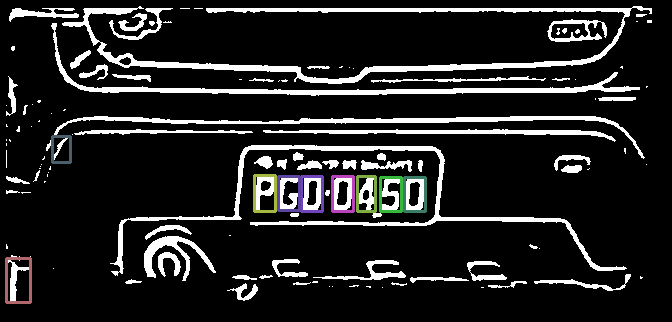
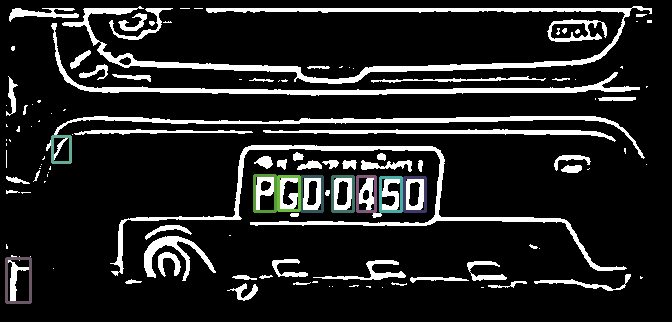
Recognition adjustments

Changed region(s): [[0.375, 0.528, 0.6562, 0.6832], [0.0, 0.7764, 0.0625, 0.9627], [0.0625, 0.4037, 0.125, 0.528]]

diff --git a/src/model/knn.py b/src/model/knn.py
@@ -3,23 +3,25 @@ import cv2 as cv
 from util.csvUtil import CSVUtil
 
 
+# K-Nearest Neighbors
 class KNN:
     def __init__(self):
-        pass
+        self.knn = self.train()
 
     def train(self):
-        pass
-
-    def classify(self, candidates):
-        print("  - KNN")
-        result = ""
-
-        classifications = np.loadtxt("../base/recognition/classifications.txt", np.float32)
-        classifications = classifications.reshape((classifications.size, 1))
+        labels = np.loadtxt("../base/recognition/labels.txt", np.float32)
+        labels = labels.reshape((labels.size, 1))
         flattened_images = np.loadtxt("../base/recognition/flattened_images.txt", np.float32)
 
         knn = cv.ml.KNearest_create()
-        knn.train(flattened_images, cv.ml.ROW_SAMPLE, classifications)
+        knn.train(flattened_images, cv.ml.ROW_SAMPLE, labels)
+
+        return knn
+
+    def classify(self, candidates):
+        print("  - KNN")
+
+        result = ""
 
         for file in candidates:
             img = cv.imread(file, 0)
@@ -28,7 +30,7 @@ class KNN:
             img_resized = img_resized.reshape((1, 34 * 52))
             img_resized = np.float32(img_resized)
 
-            retval, results, neigh_resp, dists = knn.findNearest(img_resized, k=1)
+            retval, results, neigh_resp, dists = self.knn.findNearest(img_resized, k=1)
 
             current_char = str(chr(int(results[0][0])))
 
@@ -37,23 +39,25 @@ class KNN:
         return result
     
     def get_training_data(self):
-        digits = ["../templates/mandatory/boxes/z.png", "../templates/mandatory/boxes/y.png", "../templates/mandatory/boxes/x.png",
-                  "../templates/mandatory/boxes/w.png", "../templates/mandatory/boxes/v.png", "../templates/mandatory/boxes/u.png",
-                  "../templates/mandatory/boxes/t.png", "../templates/mandatory/boxes/s.png", "../templates/mandatory/boxes/r.png",
-                  "../templates/mandatory/boxes/q.png", "../templates/mandatory/boxes/p.png", "../templates/mandatory/boxes/o.png",
-                  "../templates/mandatory/boxes/n.png", "../templates/mandatory/boxes/m.png", "../templates/mandatory/boxes/l.png",
-                  "../templates/mandatory/boxes/k.png", "../templates/mandatory/boxes/j.png", "../templates/mandatory/boxes/i.png",
-                  "../templates/mandatory/boxes/h.png", "../templates/mandatory/boxes/g.png", "../templates/mandatory/boxes/f.png",
-                  "../templates/mandatory/boxes/e.png", "../templates/mandatory/boxes/d.png", "../templates/mandatory/boxes/c.png",
-                  "../templates/mandatory/boxes/b.png", "../templates/mandatory/boxes/a.png", "../templates/mandatory/boxes/0.png",
-                  "../templates/mandatory/boxes/9.png", "../templates/mandatory/boxes/8.png", "../templates/mandatory/boxes/7.png", 
-                  "../templates/mandatory/boxes/6.png", "../templates/mandatory/boxes/5.png", "../templates/mandatory/boxes/4.png", 
-                  "../templates/mandatory/boxes/3.png", "../templates/mandatory/boxes/2.png", "../templates/mandatory/boxes/1.png"]
+        image_dir = "../templates/mandatory/boxes"
 
-        classifications = [ord('Z'), ord('Y'), ord('X'), ord('W'), ord('V'), ord('U'), ord('T'), ord('S'), ord('R'),
-                           ord('Q'), ord('P'), ord('O'), ord('N'), ord('M'), ord('L'), ord('K'), ord('J'), ord('I'),
-                           ord('H'), ord('G'), ord('F'), ord('E'), ord('D'), ord('C'), ord('B'), ord('A'), ord('0'),
-                           ord('9'), ord('8'), ord('7'), ord('6'), ord('5'), ord('4'), ord('3'), ord('2'), ord('1')]
+        digits = [image_dir+"/z.png", image_dir+"/y.png", image_dir+"/x.png",
+                  image_dir+"/w.png", image_dir+"/v.png", image_dir+"/u.png",
+                  image_dir+"/t.png", image_dir+"/s.png", image_dir+"/r.png",
+                  image_dir+"/q.png", image_dir+"/p.png", image_dir+"/o.png",
+                  image_dir+"/n.png", image_dir+"/m.png", image_dir+"/l.png",
+                  image_dir+"/k.png", image_dir+"/j.png", image_dir+"/i.png",
+                  image_dir+"/h.png", image_dir+"/g.png", image_dir+"/f.png",
+                  image_dir+"/e.png", image_dir+"/d.png", image_dir+"/c.png",
+                  image_dir+"/b.png", image_dir+"/a.png", image_dir+"/0.png",
+                  image_dir+"/9.png", image_dir+"/8.png", image_dir+"/7.png",
+                  image_dir+"/6.png", image_dir+"/5.png", image_dir+"/4.png",
+                  image_dir+"/3.png", image_dir+"/2.png", image_dir+"/1.png"]
+
+        labels = [ord('Z'), ord('Y'), ord('X'), ord('W'), ord('V'), ord('U'), ord('T'), ord('S'), ord('R'),
+                  ord('Q'), ord('P'), ord('O'), ord('N'), ord('M'), ord('L'), ord('K'), ord('J'), ord('I'),
+                  ord('H'), ord('G'), ord('F'), ord('E'), ord('D'), ord('C'), ord('B'), ord('A'), ord('0'),
+                  ord('9'), ord('8'), ord('7'), ord('6'), ord('5'), ord('4'), ord('3'), ord('2'), ord('1')]
 
         flattened_images = np.empty((0, 34 * 52))
         for digit in digits:
@@ -63,8 +67,8 @@ class KNN:
             flattened = img.reshape((1, 34 * 52))
             flattened_images = np.append(flattened_images, flattened, 0)
 
-        classifications = np.array(classifications, np.float32)
-        classifications = classifications.reshape(classifications.size, 1)
+        labels = np.array(labels, np.float32)
+        labels = labels.reshape(labels.size, 1)
 
-        np.savetxt("../base/classifications.txt", classifications)
-        np.savetxt("../base/flattened_images.txt", flattened_images)
+        np.savetxt("../base/recognition/labels.txt", labels)
+        np.savetxt("../base/recognition/flattened_images.txt", flattened_images)

diff --git a/src/controller/alpr.py b/src/controller/alpr.py
@@ -64,7 +64,6 @@ class Alpr:
         window = 13
         mean_c = 6
         threshold = th.process_adaptive(window, mean_c)
-        cv.imwrite('../bin/' + self.img_name + '-threshold.png', threshold)
 
         return threshold
 
@@ -98,7 +97,7 @@ class Alpr:
                     boxes.append([x, y, w, h])
 
             if 4.1 <= proportion <= 5.5:
-                if 3 <= w <= 15 and 40 <= h <= 80:
+                if 3 <= w <= 15 and 30 <= h <= 80:
                     colors = self.contour_color()
                     cv.rectangle(img, (x, y), (x + w, y + h), colors, 2)
                     boxes.append([x, y, w, h])
@@ -111,6 +110,71 @@ class Alpr:
             return boxes_files
 
         return False
+
+    def classification(self, candidates):
+        print('- Classification')
+
+        knn = KNN()
+        result = knn.classify(candidates)
+
+        results = self.validate_plates(result)
+
+        if len(results) != 0:
+            print("    - License Plates Detected: ", results)
+            return
+
+        print("    - Characters Detected: ", result)
+
+    def validate_plates(self, result):
+        regex = re.compile('[A-Z12578]{3,3}[0-9IZSTB]{4,4}')
+        results = regex.findall(result)
+
+        if len(results) != 0:
+            plates = []
+            for plate in results:
+                letters = plate[:3]
+                numbers = plate[3:]
+                letters, numbers = self.remove_ambiguity(letters, numbers)
+                plate = letters+'-'+numbers
+                plates.append(plate)
+
+            return plates
+
+        return result
+
+    def remove_ambiguity(self, letters, numbers):
+        letter_replace = {'1': 'I', '2': 'Z', '5': 'S', '7': 'T', '8': 'B'}
+        number_replace = {'I': '1', 'Z': '2', 'S': '5', 'T': '7', 'B': '8'}
+
+        correct_letters = ''
+        for letter in letters:
+            if letter in letter_replace.keys():
+                correct_letters += letter_replace.get(letter)
+                continue
+            correct_letters += letter
+
+        correct_numbers = ''
+        for number in numbers:
+            if number in number_replace.keys():
+                correct_numbers += number_replace.get(number)
+                continue
+            correct_numbers += number
+
+        return correct_letters, correct_numbers
+
+    def compress(self, img, binary=False):
+        print('- Compression')
+
+        compression = Compression(img)
+        compressed, tree = compression.huffman()
+
+        if binary:
+            str_compr = compression.run_length(compressed)
+            self.write_file(str_compr, self.img_name + '-thresholdcompressed.txt')
+            return
+
+        decompressed = compression.decode_huffman(compressed, tree)
+        cv.imwrite('../bin/' + self.img_name + '-huffman-decoded.png', decompressed)
 
     def representation(self, img, show=False):
         moments = cv.moments(img, True)
@@ -126,35 +190,6 @@ class Alpr:
             print('   - Hu Moments: ', hustr)
 
         return hulog
-
-    def classification(self, candidates):
-        print('- Classification')
-
-        knn = KNN()
-        result = knn.classify(candidates)
-
-        regex = re.compile('[A-Z]{3,3}[0-9]{4,4}')
-        results = regex.findall(result)
-
-        if len(results) != 0:
-            print("    - License Plates Detected: ", results)
-            return
-
-        print("    - Characters Detected: ", result)
-
-    def compress(self, img, binary=False):
-        print('- Compression')
-
-        compression = Compression(img)
-        compressed, tree = compression.huffman()
-
-        if binary:
-            str_compr = compression.run_length(compressed)
-            self.write_file(str_compr, self.img_name + '-thresholdcompressed.txt')
-            return
-
-        decompressed = compression.decode_huffman(compressed, tree)
-        cv.imwrite('../bin/' + self.img_name + '-huffman-decoded.png', decompressed)
 
     def contour_color(self):
         b = np.random.randint(50, 200)
